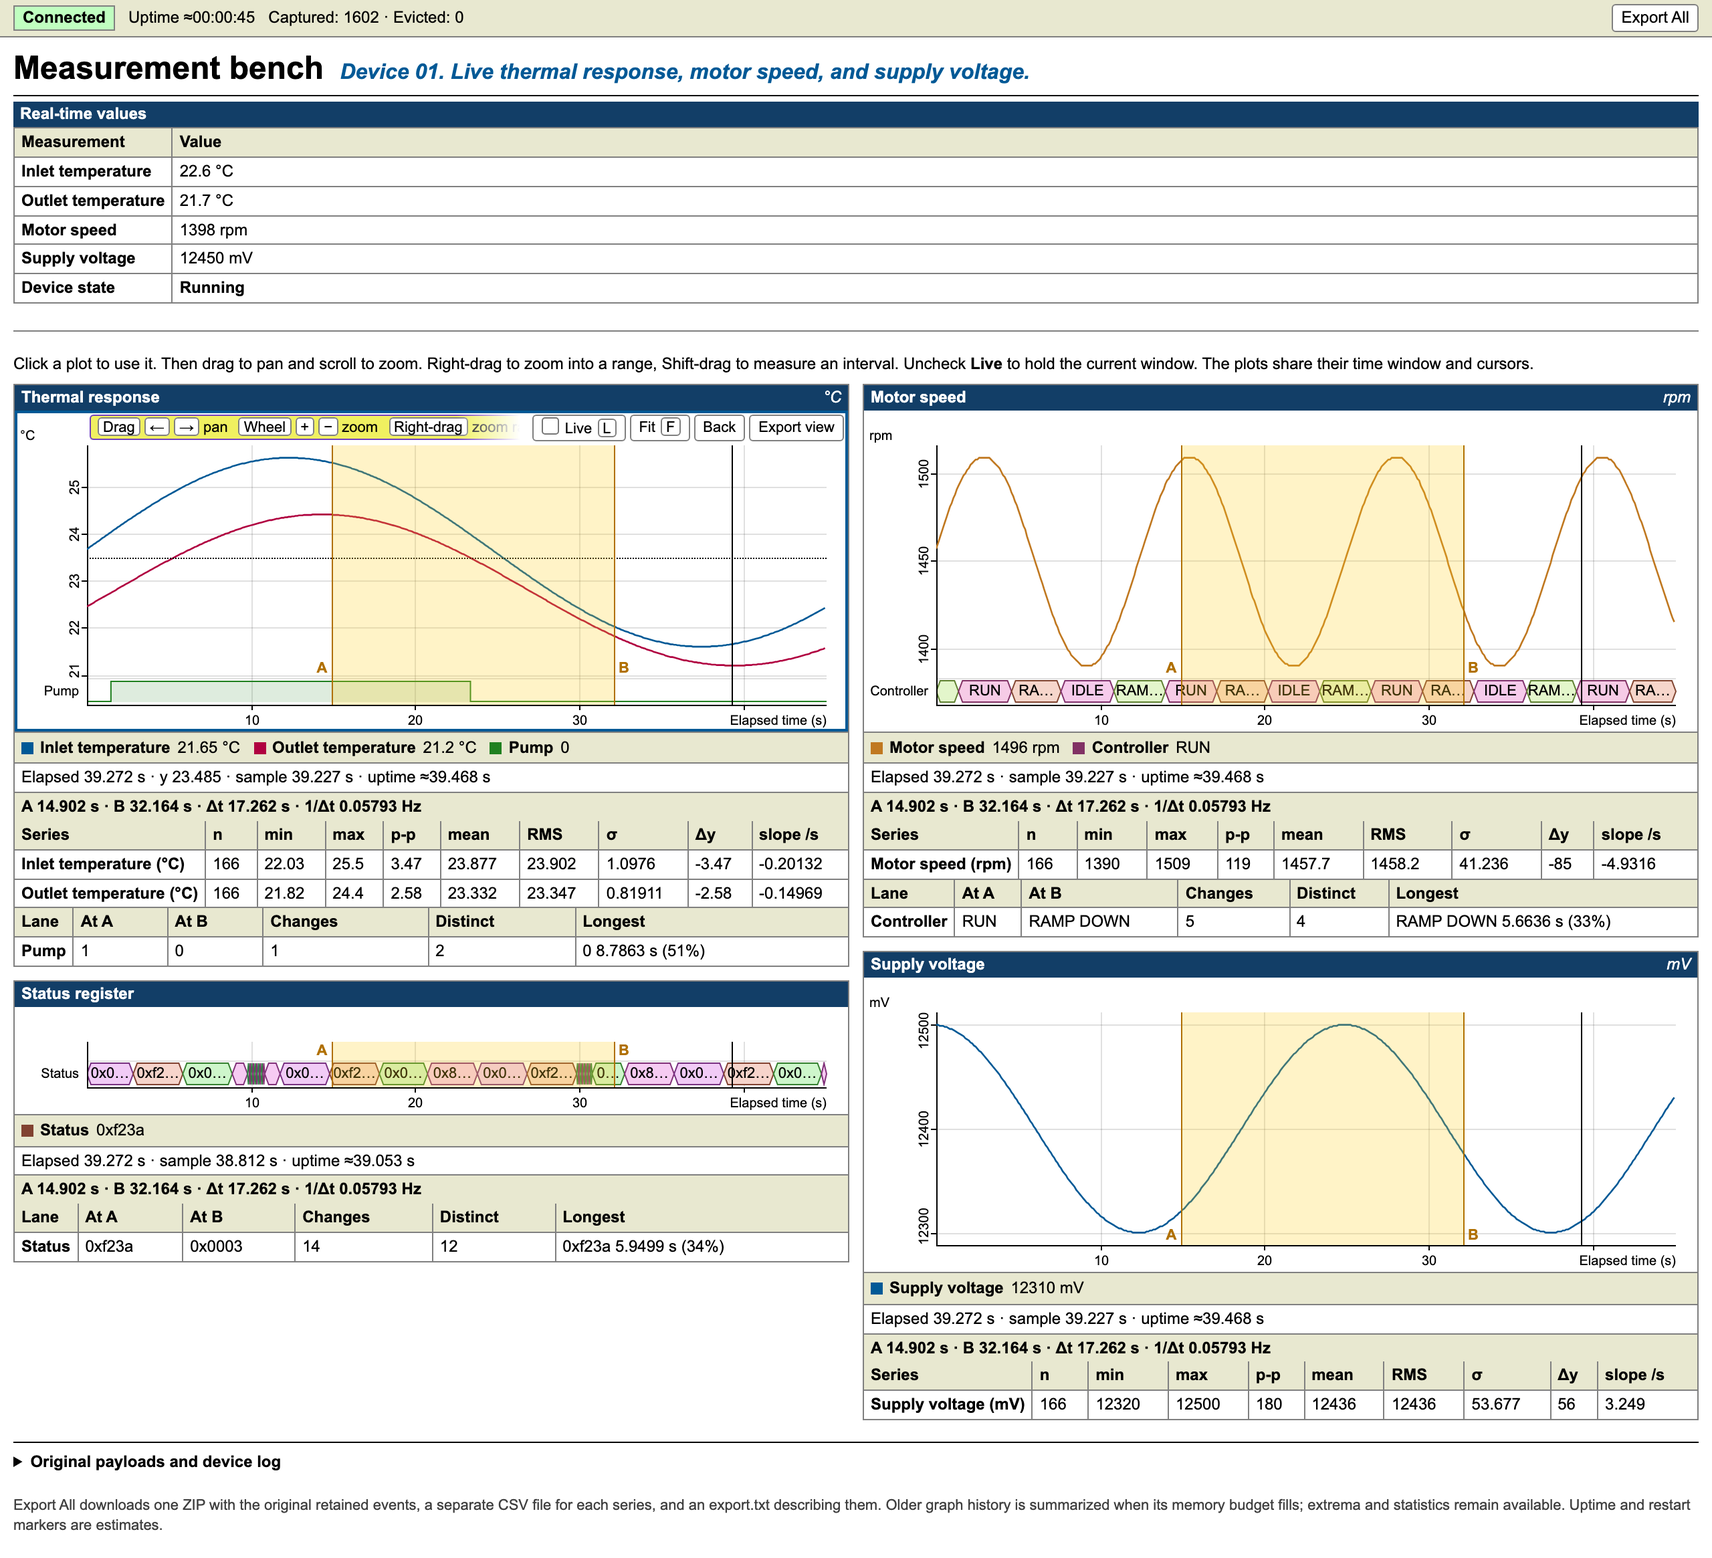
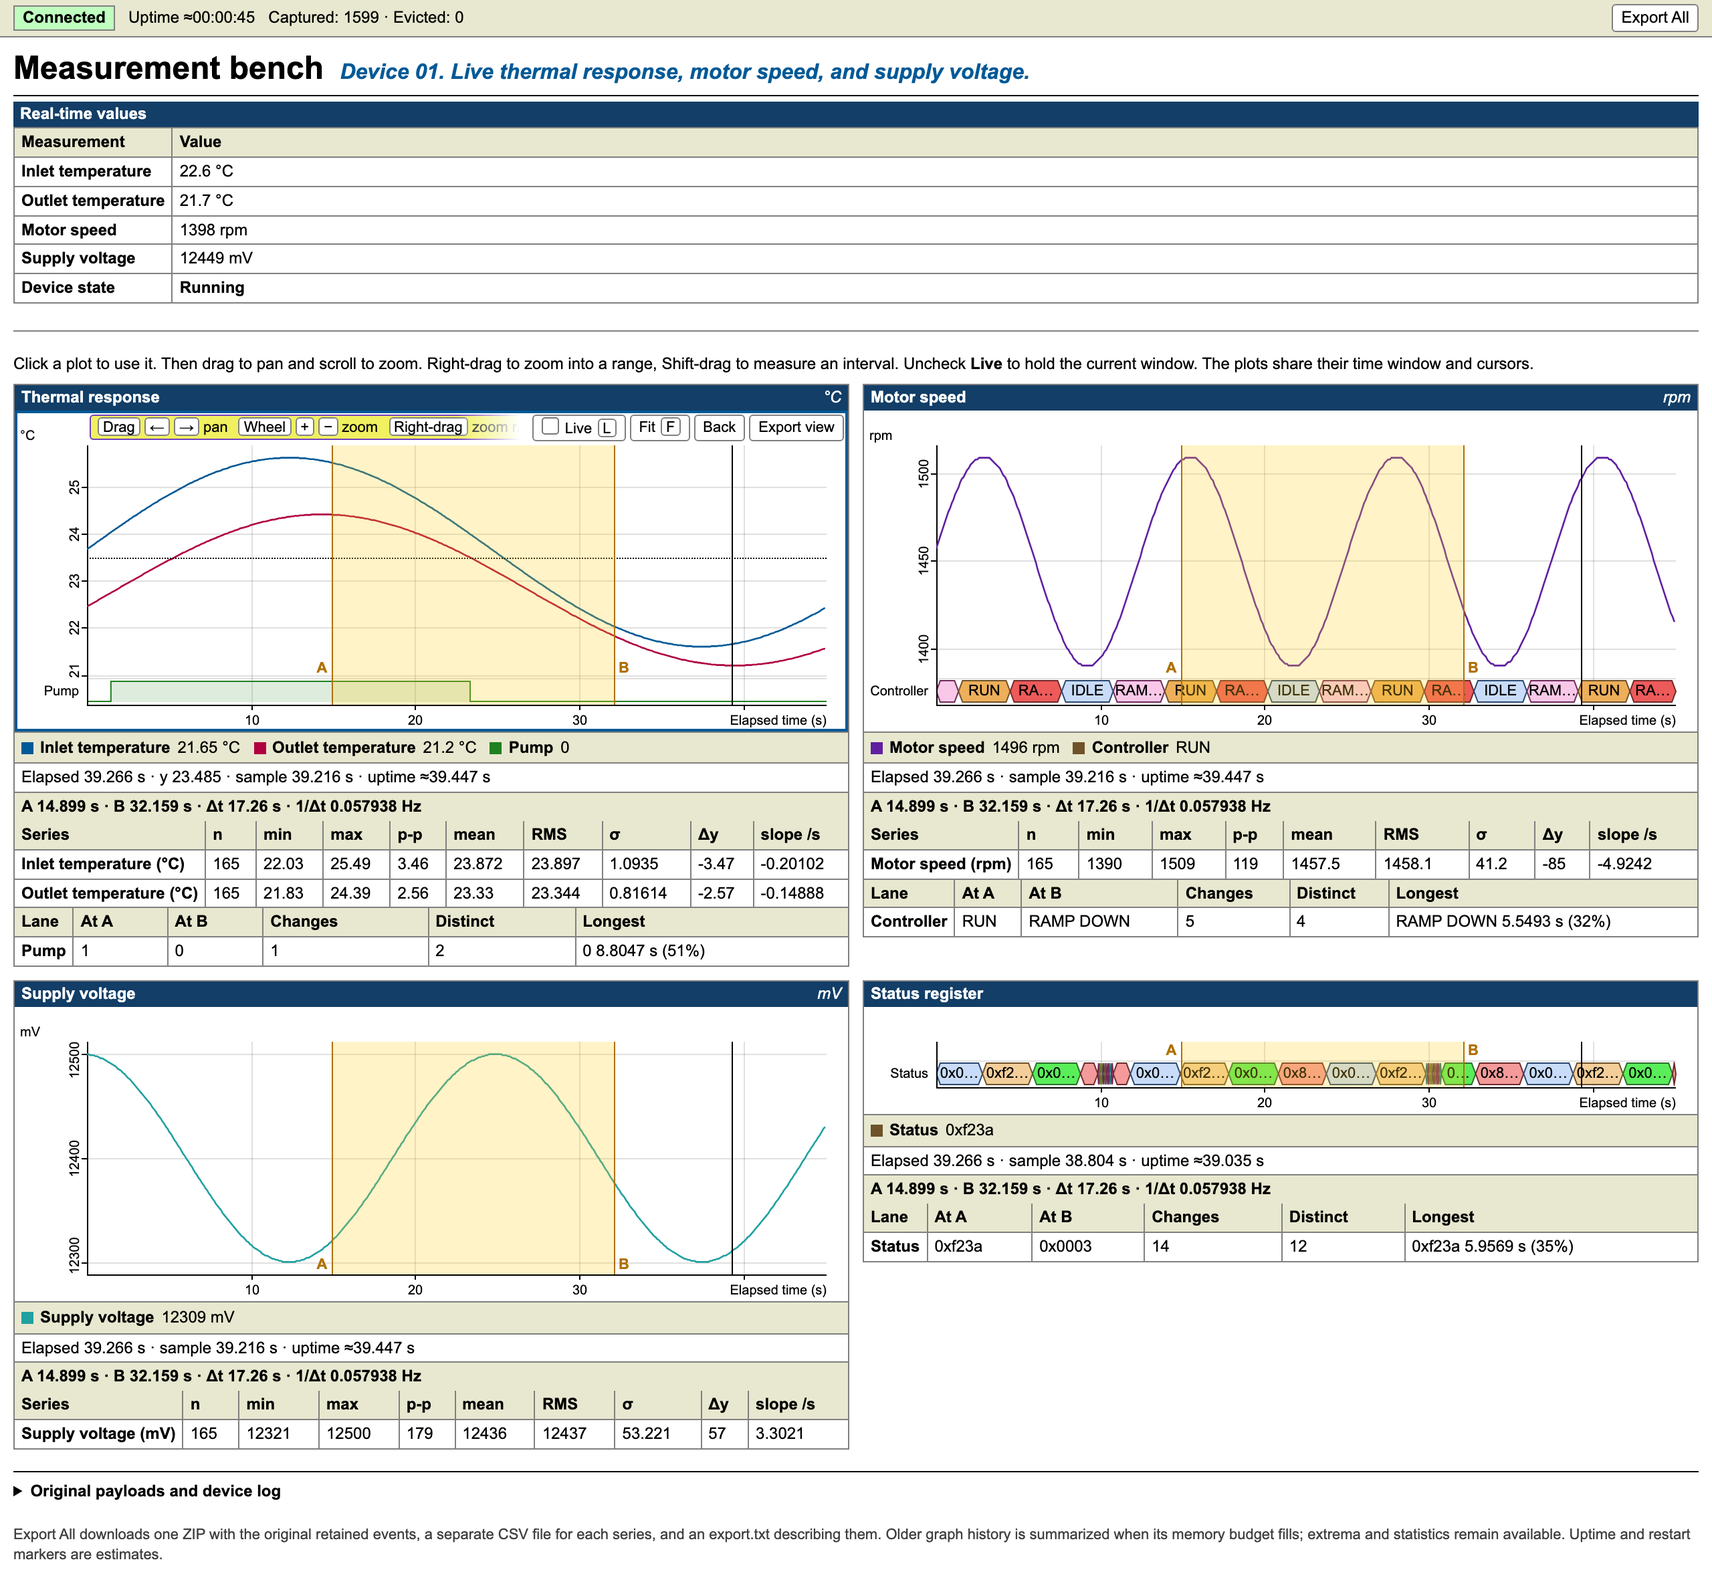
Improve discrete value coloring

diff --git a/src/turbo-sse.js b/src/turbo-sse.js
@@ -289,13 +289,18 @@
     return magnitude && (magnitude >= 1e6 || magnitude < .001) ? value.toExponential(4).replace(/\.?0+e/, "e") : String(Number(value.toPrecision(5)));
   };
   const put = (node, text) => { if (node.textContent !== text) node.textContent = text; };
-  // Discrete lanes: each value's color comes from a hash of its text, so a value looks the same everywhere.
-  const LANE = 20;
-  const tint = (text, light) => {
-    let hash = 2166136261;
-    for (let i = 0; i < text.length; i++) hash = Math.imul(hash ^ text.charCodeAt(i), 16777619);
-    return `hsl(${(hash >>> 0) % 360},${light ? "70%,88%" : "45%,35%"})`;
+  // Discrete lanes. A well-mixed hash of a value's text picks two of 24 colors: eight hue families near the page's
+  // own palette, each in three pastel tints that keep black text readable. The second color always has another hue.
+  // A value takes its first color unless another value in the same lane already has that hue or that color.
+  const LANE = 20, HUES = [0, 35, 60, 120, 180, 215, 270, 320];
+  const choices = text => {
+    let h = 2166136261;
+    for (let i = 0; i < text.length; i++) h = Math.imul(h ^ text.charCodeAt(i), 16777619);
+    h = Math.imul(h ^ h >>> 16, 2246822507); h = Math.imul(h ^ h >>> 13, 3266489909); h = (h ^ h >>> 16) >>> 0;
+    const first = h % 24;
+    return [first, (h >>> 16) % 3 * 8 + (first % 8 + 1 + (h >>> 20) % 7) % 8];
   };
+  const shade = (slot, fill) => `hsl(${HUES[slot % 8]},${fill ? "80%," + [88, 78, 64][slot >> 3] : "45%,30"}%)`;
   // Shorten text with an ellipsis to fit a width in pixels; empty when nothing fits.
   const clip = (ctx, text, room) => {
     const width = ctx.measureText(text).width, keep = Math.floor(text.length * room / width) - 1;
@@ -536,7 +541,7 @@
         const point = c.history.nearest(t === null ? g.hi : t, t === null || !!c.lane), a = point && point.a;
         if (c.lane) {
           const text = !a ? "—" : point.summary ? "…" : a[8] >= 0 ? c.values[a[8]] : "—", style = this.values[i].parentElement.style;
-          const color = c.lane == "bus" && c.index.has(text) ? tint(text) : style.getPropertyValue("--series-color");
+          const color = c.lane == "bus" && a && !point.summary && a[8] >= 0 ? shade(c.slots[a[8]]) : style.getPropertyValue("--series-color");
           put(this.values[i], text);
           if (style.getPropertyValue("--series-color") !== color) style.setProperty("--series-color", color);
           return;
@@ -645,7 +650,7 @@
           }
           const slant = Math.min(3, (x1 - x0) / 2), a = Math.max(x0, L), b = Math.min(x1, end), label = clip(ctx, text, b - a - 8);
           ctx.beginPath(); ctx.moveTo(x0, mid); ctx.lineTo(x0 + slant, top); ctx.lineTo(x1 - slant, top); ctx.lineTo(x1, mid); ctx.lineTo(x1 - slant, bottom); ctx.lineTo(x0 + slant, bottom); ctx.closePath();
-          ctx.fillStyle = tint(text, 1); ctx.fill(); ctx.strokeStyle = tint(text); ctx.stroke();
+          ctx.fillStyle = shade(c.slots[value], 1); ctx.fill(); ctx.strokeStyle = shade(c.slots[value]); ctx.stroke();
           if (label) { ctx.fillStyle = "#000"; ctx.fillText(label, (a + b) / 2, mid); }
         };
         const busy = (t0, t1, n, summary) => {
@@ -949,7 +954,11 @@
           }
           y = text ? c.index.get(text) : -1;
           if (y === undefined) {
-            if (c.values.length < 1024) c.index.set(text, y = c.values.push(text) - 1);
+            if (c.values.length < 1024) {
+              const [first, second] = choices(text), hue = slot => c.slots.some(s => s % 8 == slot % 8);
+              c.slots.push(hue(first) && !hue(second) || c.slots.includes(first) && !c.slots.includes(second) ? second : first);
+              c.index.set(text, y = c.values.push(text) - 1);
+            }
             else { counts.graphErrors++; y = -1; }
           }
           c.text = text || "—";
@@ -1054,7 +1063,7 @@
             const unit = attr(element, "unit") || "", key = JSON.stringify([name, path, fn, unit, lane]);
             let c = nextChannels.get(key) || channels.get(key);
             if (!c || c.transform !== transform) c = {id: ++serial, event: name, path: attr(element, "json") || "", fn: fn || "", transform, unit, lane,
-              values: [], index: new Map(), label: attr(element, "label") || name, history: new History(graphBudget - clockBudget), tick: -1};
+              values: [], index: new Map(), slots: [], label: attr(element, "label") || name, history: new History(graphBudget - clockBudget), tick: -1};
             if (!hosts.has(host)) hosts.set(host, []);
             const series = hosts.get(host), first = series.find(s => !s.lane);
             if (!lane && first && first.unit !== unit) throw new Error("Use synchronized panels for different units");

diff --git a/tests/test_graphs.py b/tests/test_graphs.py
@@ -340,6 +340,20 @@ class GraphCases:
         self.case.disconnect(); self.wait_requests(2); self.text('.turbo-sse-status', 'Connected')
         self.assertEqual(self.lane('State')['raw'], 4)
 
+    def test_lane_values_get_distinct_colors(self):
+        self.open('<div id="a" data-sse-graph data-sse-event="s" data-sse-discrete data-sse-label="First"></div>'
+                  '<div id="b" data-sse-graph data-sse-event="t" data-sse-discrete data-sse-label="Second"></div>')
+        colors = {}
+        for plot, event, value in (('#a', 's', 'S2'), ('#a', 's', 'S3'), ('#b', 't', 'S3')):
+            self.case.emit(event, value)
+            expect(self.page.locator(plot + ' .turbo-sse-series-value')).to_have_text(value)
+            colors[plot, value] = self.page.locator(plot + ' .turbo-sse-legend > *').evaluate('e => e.style.getPropertyValue("--series-color")')
+        # S2 and S3 hash to the same first color. Sharing a lane, the later value takes its second color;
+        # alone in another lane, S3 keeps its first color.
+        self.assertNotEqual(colors['#a', 'S2'], colors['#a', 'S3'])
+        self.assertEqual(colors['#b', 'S3'], colors['#a', 'S2'])
+        self.assertEqual(colors['#a', 'S2'], 'hsl(215,45%,30%)')
+
     def test_logic_lane_levels_and_invalid_values(self):
         self.open('<div id="p" data-sse-graph data-sse-event="p" data-sse-discrete="logic" data-sse-label="Pump"></div>'
                   '<div id="q" data-sse-graph data-sse-event="q" data-sse-discrete="enum"></div>')

diff --git a/tests/test_demo.py b/tests/test_demo.py
@@ -104,10 +104,10 @@ class DemoTests(unittest.TestCase):
                 with zipfile.ZipFile(archive.value.path()) as z:
                     self.assertIsNone(z.testzip())
                     self.assertEqual(z.namelist(), ["export.txt", "raw-events.csv", "s01-Inlet-temperature.csv", "s02-Outlet-temperature.csv",
-                                                    "s03-Pump.csv", "s04-Status.csv", "s05-Motor-speed.csv", "s06-Controller.csv", "s07-Supply-voltage.csv"])
+                                                    "s03-Pump.csv", "s04-Motor-speed.csv", "s05-Controller.csv", "s06-Supply-voltage.csv", "s07-Status.csv"])
                     self.assertIn("diagnostic", z.read("raw-events.csv").decode("utf-8"))
                     # Lane files list the values held; the controller lane starts in one of its four states.
-                    controller = list(csv.DictReader(io.StringIO(z.read("s06-Controller.csv").decode("utf-8"))))
+                    controller = list(csv.DictReader(io.StringIO(z.read("s05-Controller.csv").decode("utf-8"))))
                     self.assertIn(controller[0]["value"], ("IDLE", "RAMP UP", "RUN", "RAMP DOWN"))
                     self.assertIn("lane", z.read("export.txt").decode("utf-8"))
                 expect(page.locator(".turbo-sse-uptime")).to_contain_text("Uptime ≈")

diff --git a/VALIDATION.md b/VALIDATION.md
@@ -4,7 +4,7 @@ Python 3.9.6 and Playwright 1.55.0 on macOS 27.0 (arm64, Apple M4 Pro). Browser 
 
 **Behavior and visual checks**
 
-The complete suite passes **191 tests**. Coverage includes existing SSE/raw/JSON/transform/log/reconnect behavior, explicit raw omission, numeric uptime, restart inference, shared series, numerical compaction, CSV snapshot consistency, raw/series downloads, the single export path (every export button downloads one ZIP with export.txt and valid CRCs, including single-file and graph-free exports, and reports failures next to Export All), extreme finite values, lifecycle cleanup, touch/keyboard inspection, synchronized plots, and resizing selected off-screen panels without horizontal overflow. Plot interaction tests cover click-to-activate, the Live state and one-time Fit, the zoom and measurement bands, A/B marker labels, markers stopping Live, measuring without moving the page layout, toolbar focus, shortcuts after clicks outside the canvas, selectable readout/legend/measurement text, the reserved control band, the cut-off key legend that fades and shows in full on hover, generated headers, and discrete lanes: change-only storage, bus and logic values, hashed colors, snapping, lane measurements, lane exports and the lane-only graph.
+The complete suite passes **194 tests**. Coverage includes existing SSE/raw/JSON/transform/log/reconnect behavior, explicit raw omission, numeric uptime, restart inference, shared series, numerical compaction, CSV snapshot consistency, raw/series downloads, the single export path (every export button downloads one ZIP with export.txt and valid CRCs, including single-file and graph-free exports, and reports failures next to Export All), extreme finite values, lifecycle cleanup, touch/keyboard inspection, synchronized plots, and resizing selected off-screen panels without horizontal overflow. Plot interaction tests cover click-to-activate, the Live state and one-time Fit, the zoom and measurement bands, A/B marker labels, markers stopping Live, measuring without moving the page layout, toolbar focus, shortcuts after clicks outside the canvas, selectable readout/legend/measurement text, the reserved control band, the cut-off key legend that fades and shows in full on hover, generated headers, and discrete lanes: change-only storage, bus and logic values, hashed colors with a hue-aware second choice, snapping, lane measurements, lane exports and the lane-only graph.
 
 History tests compare counts, means, population variance/deviation, extrema and their timestamps against independent reference calculations. They cover gaps, duplicate times, small budgets, many restarts, stable snapshots, and values near 1e308 and 1e-300. Busy channels can use otherwise idle channels' capacity without premature compaction.
 
@@ -16,9 +16,9 @@ The build is deterministic and `tools/build.py --check` passes. C99 and C++11 te
 
 | Asset | Minified bytes | Gzip bytes |
 | --- | ---: | ---: |
-| JavaScript | 56,421 | 18,920 |
+| JavaScript | 56,861 | 19,130 |
 | CSS | 5,886 | 1,779 |
-| Combined | 62,307 | **20,699** |
+| Combined | 62,747 | **20,909** |
 
 The full implementation exceeds the soft **8 KiB gzip target**. The regression ceiling is **22 KiB**; it was raised from 16 KiB for the generated plot headers, the plot interaction controls, the classless page styles and discrete lanes. This is a disclosed size tradeoff for bounded indexed history, inspection controls and consistent multi-file exports; it is not presented as meeting the original target.
 
@@ -31,7 +31,7 @@ Ingestion and reference calculation took **1.68 seconds**. Peak accounted histor
 **Live runs and their scope**
 
 - [Final JavaScript release check](benchmarks/graph-release-15s.json): real SSE, four panels/eight channels, 100 groups/second for 15 seconds, with two complete snapshot exports, each downloaded as one ZIP holding export.txt and nine CSV files. All 1,515 messages arrived; every series retained 1,500 valid measurements; no errors. It was rerun after the plot interaction and header rework, and this report's JavaScript hash matches the shipped build.
-- That release check averaged **27.1 canvas draws per configured panel per second**. Cursor-handler p95 was **0.400 ms**; event-to-next-animation-frame p95 was **17.10 ms**. Render-callback p95 was **3.10 ms**.
+- That release check averaged **25.8 canvas draws per configured panel per second**. Cursor-handler p95 was **0.600 ms**; event-to-next-animation-frame p95 was **17.60 ms**. Render-callback p95 was **2.90 ms**.
 - [High-rate check](benchmarks/graph-final-20s.json): the preceding layout build received all 20,020 messages / 160,000 measurement values in 20 seconds at 1,000 groups/second. A 1 MiB graph budget forced compaction, with two nine-file export preparations and no errors. The later change formatted large/small display numbers in scientific notation.
 - [Completed ten-minute soak](benchmarks/graph-soak-10m.json): an earlier hardened build received all 75,600 messages / 600,000 measurement values at 125 groups/second, under an 8 MiB graph budget, with four nine-file export preparations and no errors. Its tested hash is recorded; it predates shared idle-capacity borrowing and the last layout refinements.
 - [Thirty-minute live observations](benchmarks/graph-live-30m-observations.json): the first 30 minutes of the earlier long run, recorded before later numerical/layout refinements. The user requested a 30-minute limit, so the longer process was interrupted and no final end-of-run assertion/timing summary is claimed for it. This file is explicitly observation-only evidence, not a final-build pass.
@@ -41,6 +41,6 @@ Callback timings exclude browser paint and include lightweight animation callbac
 **Final asset SHA-256**
 
 ```text
-1281b768fbe11e0c92b6555be183dd88b83e838512c43ab9e28fb03b5e56ec77  dist/turbo-sse.min.js
+79c16795bb2faf764de869fb4ae47cf38dbe31788424bb284e487eb34014dd68  dist/turbo-sse.min.js
 1211aea5160734446176d830bbacc865eff0e6d7e30bbb84aae2be509628c35d  dist/turbo-sse.css
 ```

diff --git a/README.md b/README.md
@@ -10,7 +10,7 @@ Debug pages for embedded devices, driven by Server-Sent Events. Bind events to v
 
 - **Attribute bindings.** `data-sse-event`, JSON Pointer selection and your own transform functions update text, trusted HTML or append-only logs. The page needs no framework or build step.
 - **Scientific plots.** Canvas time series with synchronized windows and cursors, pan, zoom, range zoom and live follow. A/B measurements give count, extrema, peak-to-peak, mean, RMS, standard deviation, Δy and slope.
-- **Discrete lanes.** States, registers and flags draw as timing-diagram lanes under a curve or on their own, with a stable color per value and measurements of dwell time and changes.
+- **Discrete lanes.** States, registers and flags draw as timing-diagram lanes under a curve or on their own, with distinct, stable colors per value and measurements of dwell time and changes.
 - **Bounded history.** Plots keep exact samples while their memory budget allows, then summarize older data without losing counts, extrema, means or deviations.
 - **One-click exports.** Every export downloads one ZIP with the original events, one CSV per series and an `export.txt` describing the snapshot.
 - **Connection awareness.** A sticky topbar shows connection state, estimated device uptime and capture counters. Plots mark estimated device restarts, and stalled streams reconnect with a resume cursor.
@@ -181,7 +181,7 @@ Add `data-sse-discrete` to a series to draw it as a lane: a timing-diagram row f
 - **Modes.** `data-sse-discrete` alone, or `data-sse-discrete="bus"`, draws each value as a labelled segment with slanted ends at every change. `data-sse-discrete="logic"` draws a two-level signal: `1`, `true`, `on`, `high` and non-zero numbers are high; `0`, `false`, `off` and `low` are low, ignoring case.
 - **Values.** A lane's value is its text after JSON selection and the transform, so a transform may return a string such as `0xf23a`. A value holds until the next change; repeated values only confirm it, and only changes are stored. Missing, empty and unrecognized values leave a gap, as does a disconnect, so send the current value again after connecting. Unrecognized logic values count as Graph errors.
 - **Drawing.** Lanes are one text line tall and stack below the numeric area in markup order, sharing its time axis. A graph with only lanes has no y axis, and its height follows its lanes. Lane names sit in the left gutter; synced graphs share one gutter width, so stacked time axes line up. Changes too close together to draw show as a gray block with their count, and zooming in resolves them.
-- **Colors.** A bus lane colors each value by a hash of its text, so the same value has the same color in every lane, graph and session. The legend shows the value at the cursor with its color. Logic lanes use the series color.
+- **Colors.** A hash of each value's text picks two of 24 colors: eight hue families near the page's own palette, each in three pastel tints that keep black text readable. The second color always has a different hue. A value takes its first color unless another value in the same lane already has that hue; then it takes its second. So a value usually keeps its color across lanes, graphs and sessions, while values in the same lane mostly get different hues. The legend shows the value at the cursor with its color. Logic lanes use the series color.
 - **Measuring.** Markers placed within 5 px of a change over a lane snap to it. A second table lists each lane's value at A and at B, the changes between them, the distinct values, and the value held longest with its share of the interval. Counts that include summarized history are marked `≥`.
 
 ### Graph values
@@ -429,4 +429,4 @@ Publishing a GitHub Release attaches the same six files to it; pushing a tag alo
 
 ## Validation
 
-[VALIDATION.md](VALIDATION.md) records the test environment, numerical checks against reference statistics, live-run results, distribution sizes and the SHA-256 hashes of the tested build. The script and stylesheet total 20,699 bytes gzipped.
+[VALIDATION.md](VALIDATION.md) records the test environment, numerical checks against reference statistics, live-run results, distribution sizes and the SHA-256 hashes of the tested build. The script and stylesheet total 20,909 bytes gzipped.
